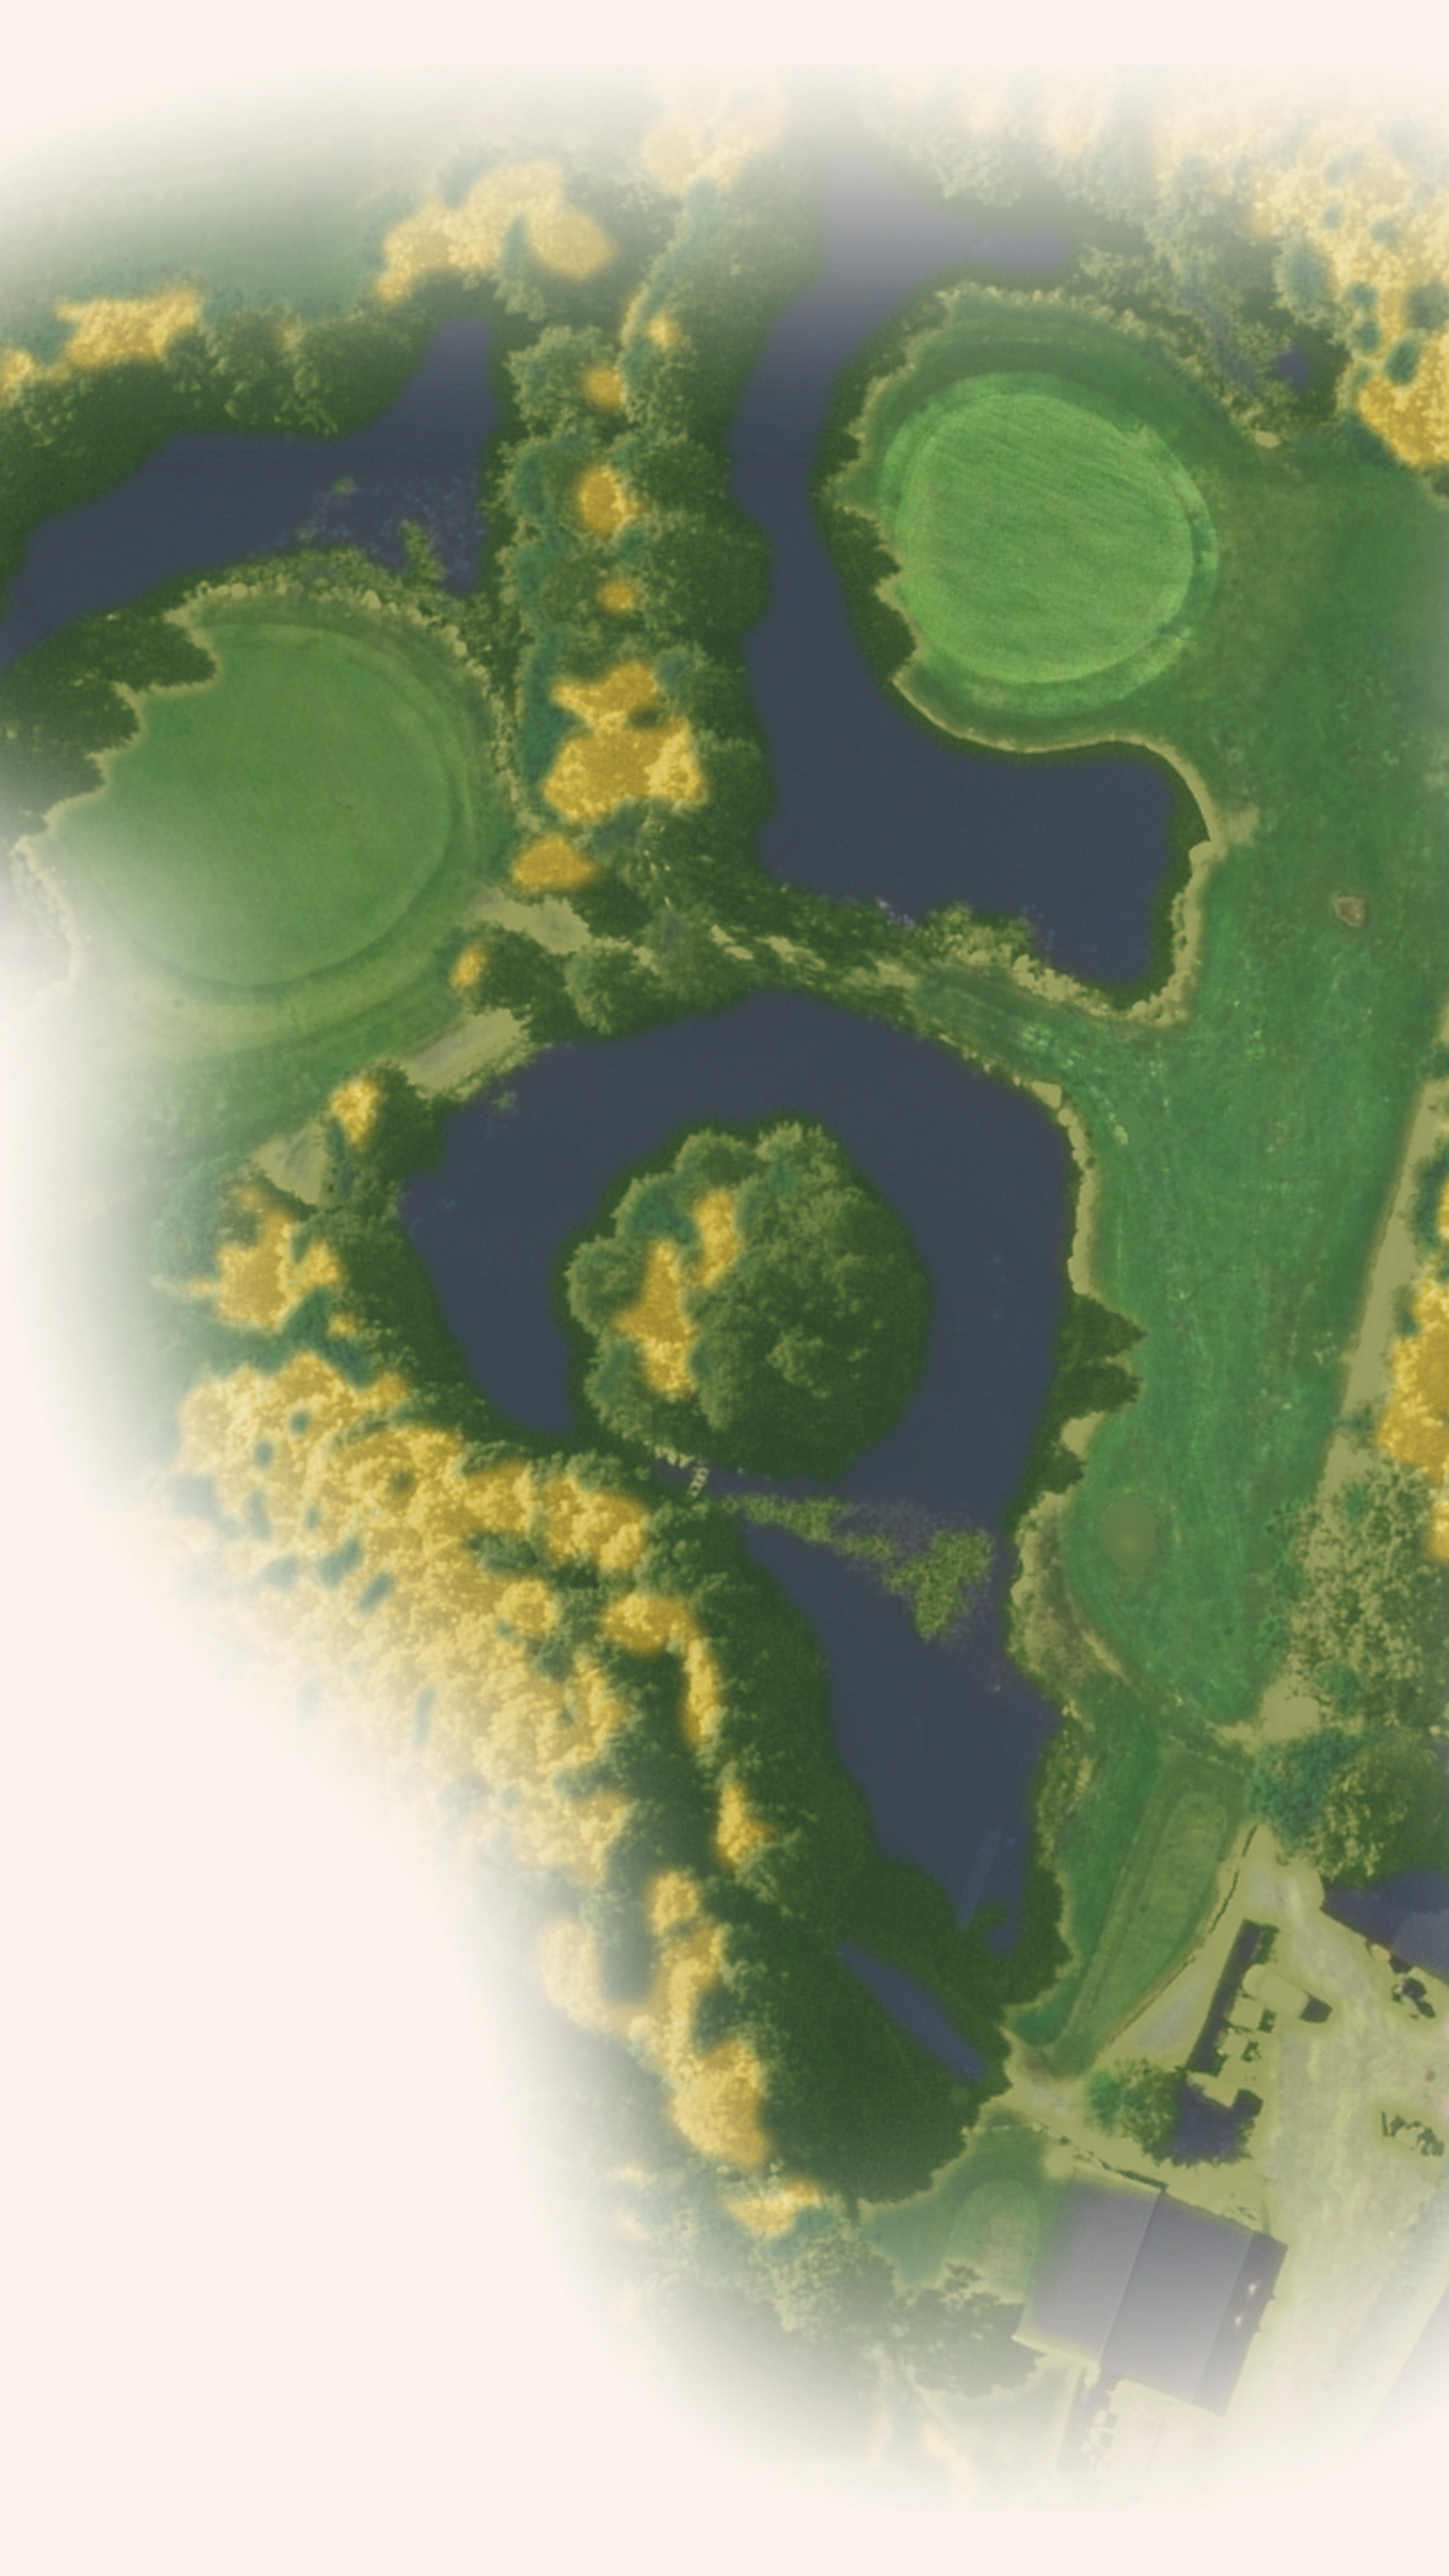
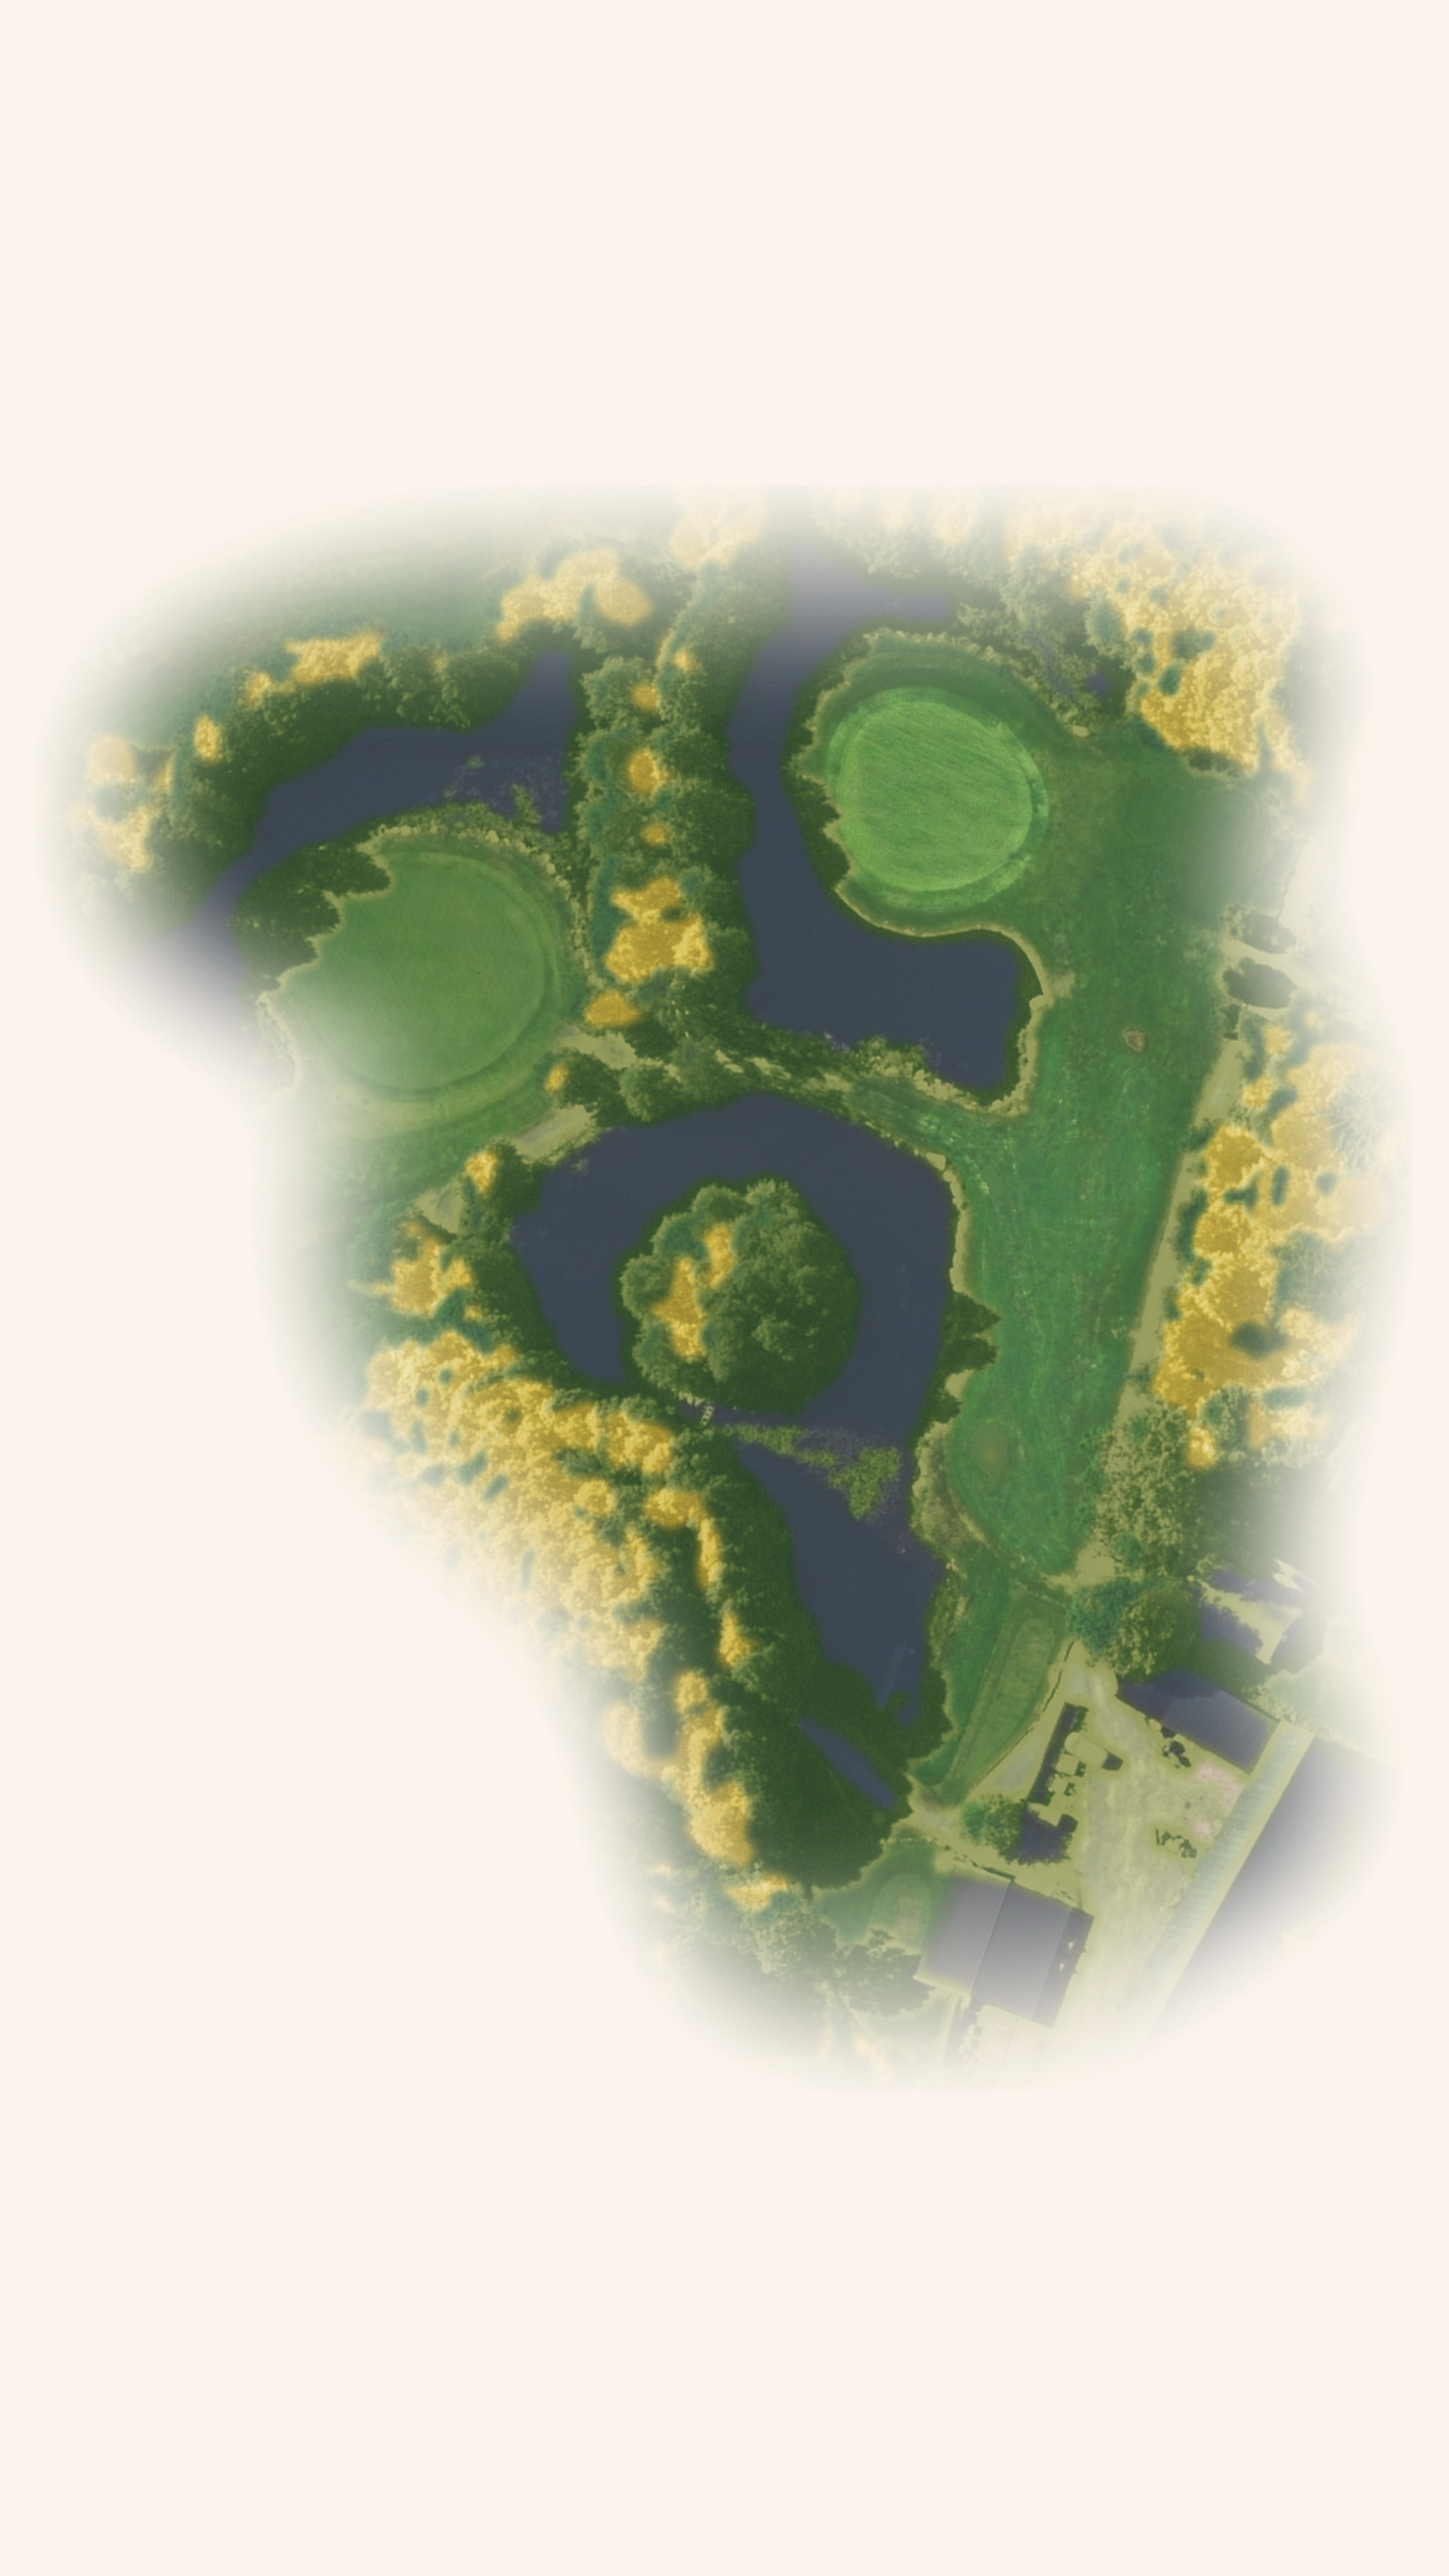
AI-underlag: breda hål (korta par 3) får plats på 9:16-duken; AI-bilden läggs tillbaka i 9:16
Claude-Session: https://claude.ai/code/session_01KqG1GUsb2FjWm4iUZSnPua

diff --git a/golfholes/render/foto.py b/golfholes/render/foto.py
@@ -311,6 +311,8 @@ def ai_underlag(hole: Hole, orto: Path, ut: Path, hojd_px: int = 2400, bredd: in
     (1350 × 2400) – det AI:n får måla om. Placeringen följer AI_SKALA så att
     AI-bilden kan läggas tillbaka exakt med ai_tillbaka."""
     rot, _ = fotounderlag(hole, orto, round(hojd_px * AI_SKALA))
+    if rot.width > bredd * AI_SKALA:  # brett hål (korta par 3): bredden styr i stället
+        rot, _ = fotounderlag(hole, orto, round(hojd_px * AI_SKALA * bredd * AI_SKALA / rot.width))
     duk = Image.new("RGB", (bredd, hojd_px), (250, 244, 236))
     duk.paste(rot, ((bredd - rot.width) // 2, (hojd_px - rot.height) // 2), rot)
     return _spara(duk, ut)
@@ -356,13 +358,17 @@ def ai_tillbaka(hole: Hole, orto: Path, ai_bilder: list[Path], ut: Path, kontrol
     Kontrollbilden visar hålfilens konturer ovanpå målningen – ligger de inte på
     målningens kanter har AI:n flyttat något och bilden får inte användas."""
     rot, px = fotounderlag(hole, orto, hojd_px)
-    inre_h = round(hojd_px * AI_SKALA)
-    inre_w = round(rot.width * AI_SKALA)
     resultat = []
     for fil in ai_bilder:
         ai = Image.open(fil).convert("RGB")
-        duk_w = round(hojd_px * ai.width / ai.height)
+        # AI:n lämnar inte exakt 9:16 (4K: 3072 × 5504); duken räknas som underlagets 9:16
+        duk_w = round(hojd_px * 9 / 16)
         ai = ai.resize((duk_w, hojd_px), Image.LANCZOS)
+        inre_h = round(hojd_px * AI_SKALA)
+        inre_w = round(rot.width * AI_SKALA)
+        if inre_w > duk_w * AI_SKALA:  # brett hål: som i ai_underlag styr bredden
+            inre_w = round(duk_w * AI_SKALA)
+            inre_h = round(inre_w * rot.height / rot.width)
         x0, y0 = (duk_w - inre_w) // 2, (hojd_px - inre_h) // 2
         malad = ai.crop((x0, y0, x0 + inre_w, y0 + inre_h)).resize(rot.size, Image.LANCZOS).convert("RGBA")
         malad.putalpha(rot.getchannel("A"))
